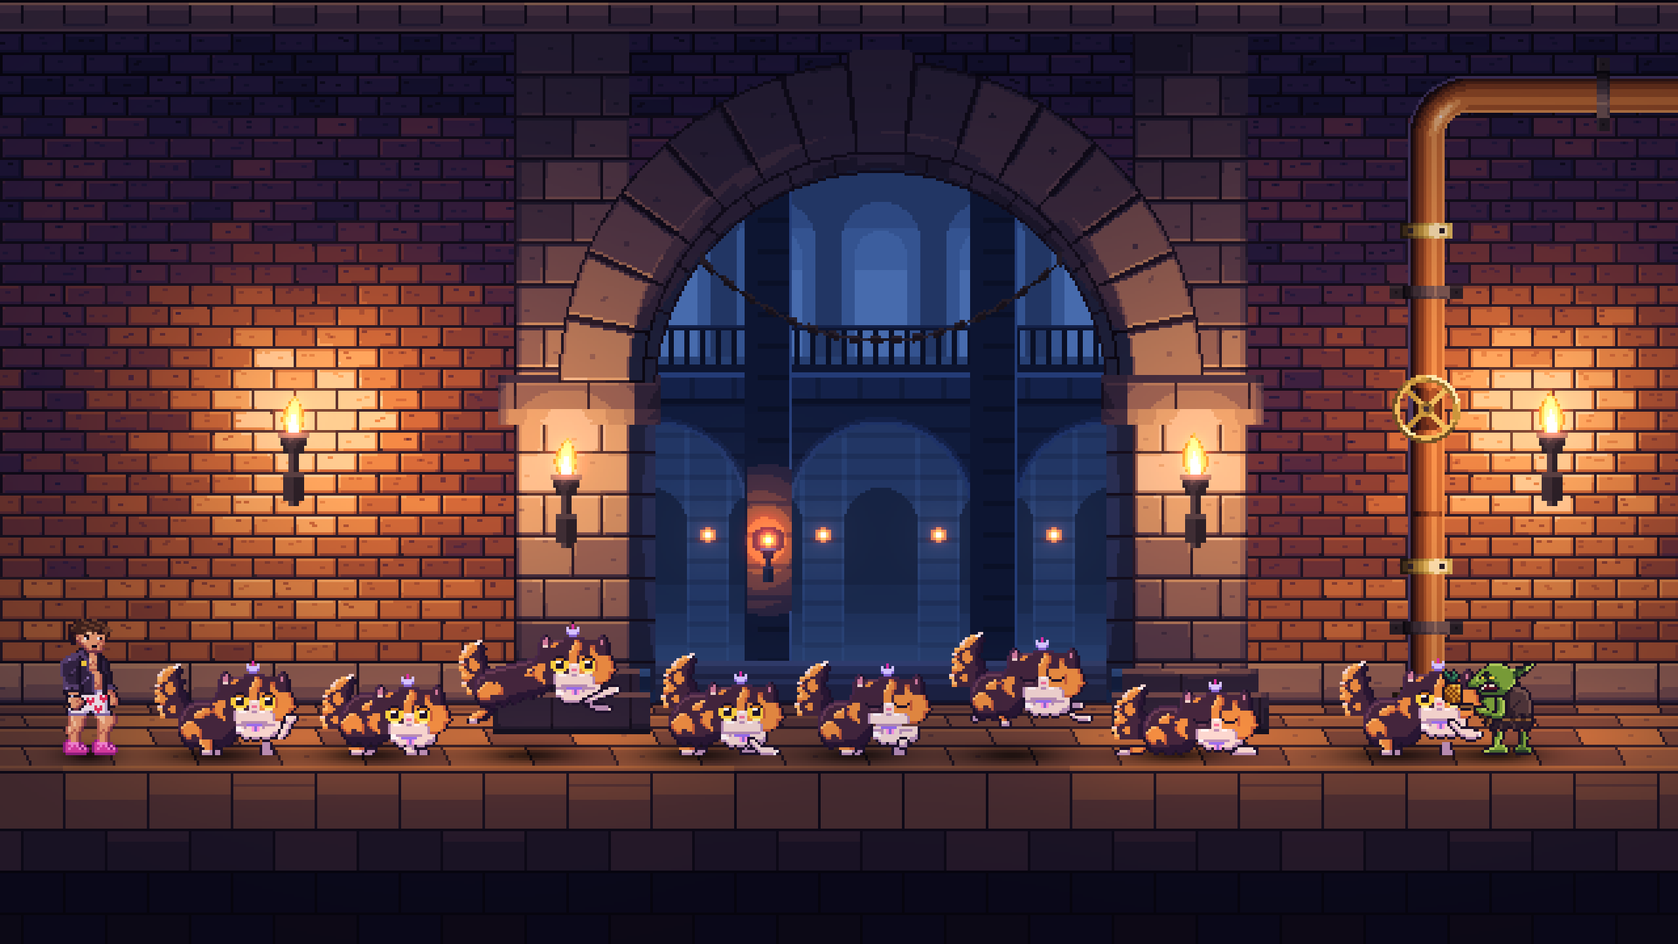
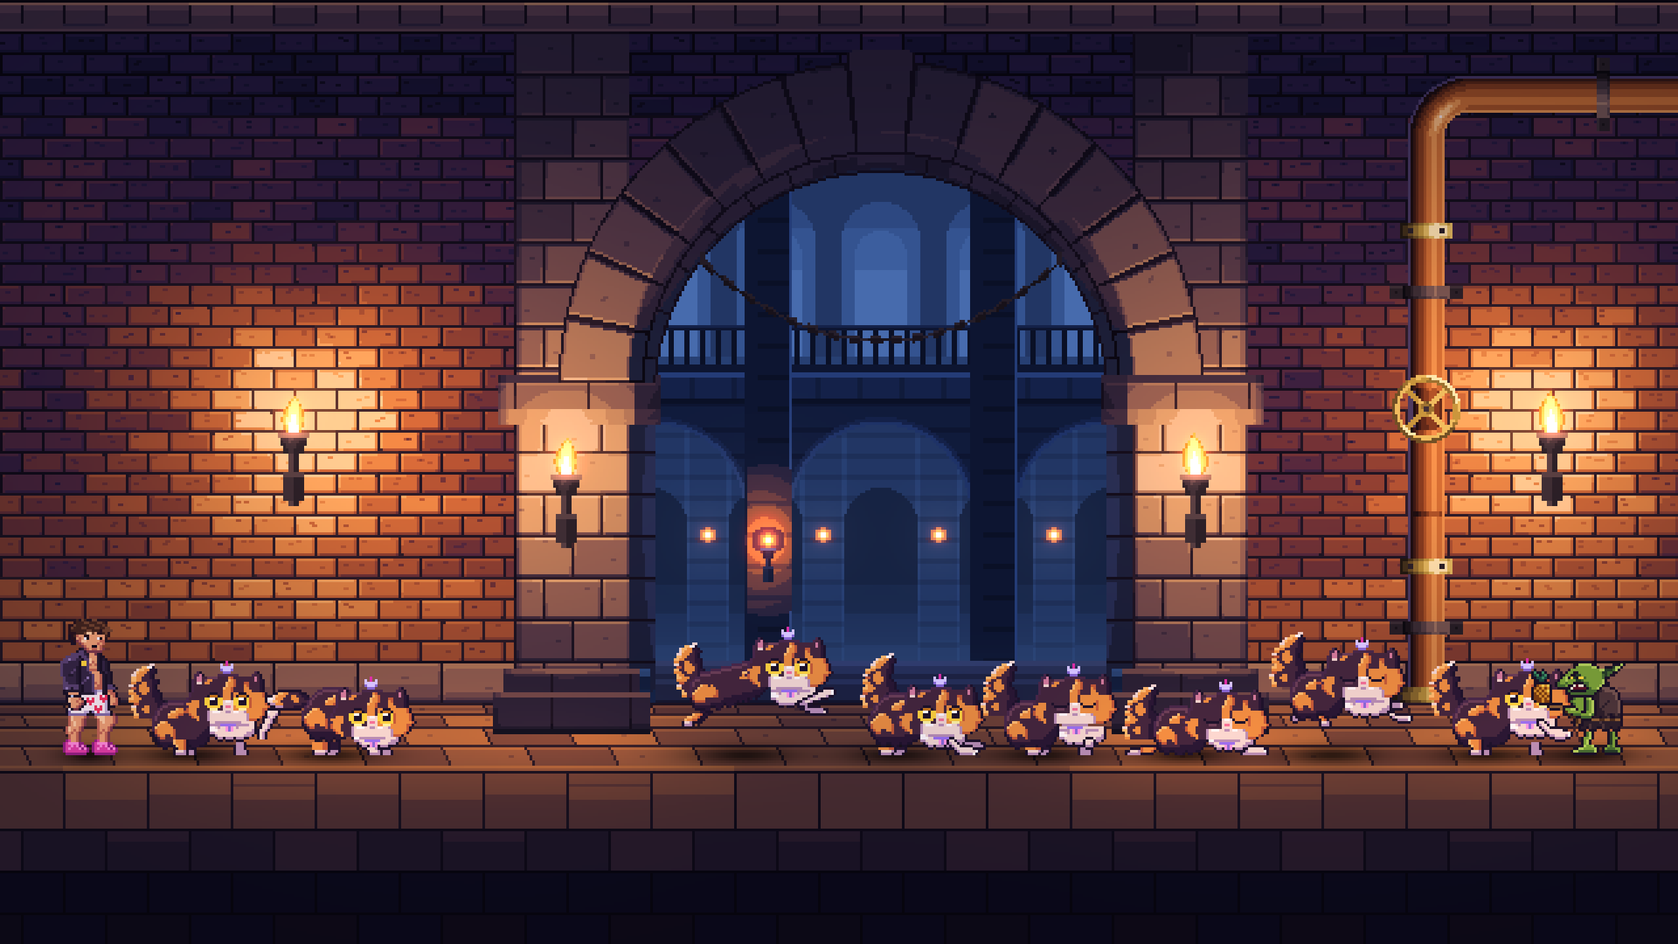
ANIM-DONUT-02: silhouette-gate fixes (p0 tell, s0 cock, p2 paws, re-staged evidence)

Changed region(s): [[0.0625, 0.6562, 1.0, 0.8125]]

diff --git a/scripts/author_donut_melee.py b/scripts/author_donut_melee.py
@@ -109,7 +109,9 @@ def key_s0() -> dict:
     f = base(15)                                   # land recovery: standing profile, chin up
     shift(f, UPPER + ["body", "tail"], -1, 1)
     clear(f, "legs_near", 44, 0)                    # the near fore becomes the swatting paw
-    put(f, "paw", 59, 28, """
+    # gate fix: paw 2 px up and 3 px forward so it breaks the head outline; K on its top and front edges,
+    # forearm continued down into the ruff to the shoulder
+    put(f, "paw", 62, 26, """
 ....KKKK.
 ...KWCCCK
 ...KCCCcK
@@ -119,6 +121,8 @@ def key_s0() -> dict:
 .KCCcK...
 .KCCcK...
 KCCcK....
+KCcK.....
+KCcK.....
 KCcK.....
 """)
     return f
@@ -146,9 +150,36 @@ KcCCK.........
 def key_p0() -> dict:
     """Pounce crouch (the tell): head 2 px lower over the paws, plume dropped low behind the rump."""
     f = base(10)                                   # jump_start crouch: chest low, rear up, hinds bunched
-    shift(f, UPPER, 0, 2)
-    shift(f, ["tail"], -2, 6)
+    shift(f, UPPER, 0, 3)                          # gate fix: chin 1 px lower, within 2 px of the forepaws
+    # gate fix: rump up 2 px. The body behind the chest (x < REAR) rises; the hind legs grow 2 rows by
+    # repeating their top (haunch) row, so the paws stay on row 43.
+    body = [["."] * W for _ in range(H)]
+    for y in range(H):
+        for x in range(W):
+            if f["body"][y][x] != ".":
+                body[y - 2 if x < P0_REAR else y][x] = f["body"][y][x]
+    f["body"] = body
+    for layer in ("legs_near", "legs_far"):
+        top = f[layer][41][:P0_REAR]
+        for y in (39, 40):
+            f[layer][y][:P0_REAR] = [c if c != "." else f[layer][y][x] for x, c in enumerate(top)]
+    # gate fix: the plume is re-pixelled for p0 only, swept back and near-horizontal, crest at the back line
+    # (the tail is outside the identity lock; same tortoiseshell keys as the master plume)
+    f["tail"] = [["."] * W for _ in range(H)]
+    put(f, "tail", 11, 19, """
+.....KKKKKKKKK......
+...KKGGOOBBBBDKK....
+.KKCGOOOBBOOBBDDK...
+KWWCOOOBBBOOOBBDDK..
+KCCGGOBBBBBOOBBBDDK.
+.KccOOOBBBBBBBDDDDK.
+..KKcccBBBBDDDDKKK..
+....KKKKKKKKKK......
+""")
     return f
+
+
+P0_REAR = 44                                       # p0: columns left of the chest that rise with the rump
 
 
 def key_p1() -> dict:
@@ -180,16 +211,17 @@ KccKK.........
 def key_p2() -> dict:
     """Pin landing: both forepaws slammed down in front, head pushed in, plume up (got it)."""
     f = base(10)
-    shift(f, UPPER, 1, 1)
+    shift(f, UPPER, 1, 2)                          # gate option: head 1 px lower into the pin
     shift(f, ["tail"], 2, -2)
     clear(f, "legs_near", 44, 0)
     clear(f, "legs_far", 44, 0)
-    put(f, "legs_far", 50, 39, """
+    # gate option: the far paw lands 2 px forward of and above the near one, in the shadow ramp
+    put(f, "legs_far", 60, 37, """
 KKK.......
-KccK......
-.KcccKKK..
-..KccccccK
-..KKKKKKKK
+KccKKKKK..
+.KccccccKK
+..KKcccccK
+....KKKKKK
 """)
     put(f, "legs_near", 55, 37, """
 KKK...........
@@ -349,9 +381,9 @@ def dump(grid: dict) -> str:
 # Evidence: keys at 1x on lit Floor 1 next to Carl and a GOB-01 goblin, plus a 4x copy and a 6x key sheet
 # ---------------------------------------------------------------------------
 
-SCENE = [  # (key frame, walking-line x, lift)
-    (0, 420, 0), (4, 478, 0), (5, 540, 10), (6, 604, 0), (8, 664, 0), (10, 724, 8), (11, 786, 0), (1, 870, 0)]
-CARL_AT, GOBLIN_AT = 362, 903
+SCENE = [  # (key frame, walking-line x, lift); airborne keys over open floor, clear of the two wall blocks
+    (0, 410, 0), (4, 464, 0), (5, 622, 9), (6, 680, 0), (8, 735, 0), (11, 790, 0), (10, 846, 8), (1, 904, 0)]
+CARL_AT, GOBLIN_AT = 362, 937
 
 
 def evidence() -> list[Path]:
@@ -392,6 +424,16 @@ def evidence() -> list[Path]:
     p = EVIDENCE / "keys_x6.png"
     sheet.save(p)
     out.append(p)
+    # gate check: s0, loco-10 jump_start and p0 side by side (the tell must be the lowest wedge)
+    loco10 = grid_images(LOCO)[10]
+    trio = [imgs[0], loco10, imgs[4]]
+    row = Image.new("RGBA", (W * 3 + 8, H + 4), (52, 46, 60, 255))
+    for n, im in enumerate(trio):
+        row.alpha_composite(im, (n * (W + 4), 2))
+    for k, name in ((1, "p0_vs_jump_start_x1.png"), (6, "p0_vs_jump_start_x6.png")):
+        p = EVIDENCE / name
+        row.resize((row.width * k, row.height * k), Image.NEAREST).convert("RGB").save(p)
+        out.append(p)
     return out
 
 

diff --git a/tests/test_art_donut_melee.py b/tests/test_art_donut_melee.py
@@ -87,7 +87,8 @@ class DonutMeleeKeysTests(unittest.TestCase):
             self.assertTrue(any(translated(got, s) for s in sources), f"key {k}: identity block was edited")
 
     def test_body_and_tail_are_translations_too(self):
-        for k in KEYS:
+        """Except p0 (gate fix): its rump rises 2 px and its plume is re-pixelled (tail is outside the lock)."""
+        for k in [k for k in KEYS if k != 4]:
             for layer in ("body", "tail"):
                 got = pixels(self.grid["frames"][k]["cels"][layer])
                 ok = any(translated(got, pixels(f["cels"][layer])) for f in self.loco["frames"] if layer in f["cels"])
@@ -101,12 +102,36 @@ class DonutMeleeKeysTests(unittest.TestCase):
             else:
                 self.assertEqual(max(rows), 43, k)
 
-    def test_swat_arc_goes_from_high_and_near_to_low_and_far(self):
+    def test_swat_is_a_downward_slap(self):
         cock = pixels(self.grid["frames"][0]["cels"]["paw"])
         hit = pixels(self.grid["frames"][1]["cels"]["paw"])
-        self.assertLess(min(y for _x, y in cock), min(y for _x, y in hit))
-        self.assertGreater(max(x for x, _y in hit), max(x for x, _y in cock))
+        # after the gate fix the cock is already forward of the head, so the swipe is a downward slap:
+        # the paw drops at least 6 rows at the same reach
+        tip = lambda px: min(y for x, y in px if x >= max(x for x, _y in px) - 5)  # noqa: E731  paw rows
+        self.assertGreaterEqual(tip(hit) - tip(cock), 6)
+        self.assertLessEqual(abs(max(x for x, _y in hit) - max(x for x, _y in cock)), 1)
         self.assertGreaterEqual(max(x for x, _y in hit) - am.PIVOT[0], 22)
+
+    def test_p0_is_a_low_forward_wedge(self):
+        """Gate fix: plume at or below the back line, tiara is the highest pixel, head 3 px below jump_start."""
+        p0 = self.grid["frames"][4]["cels"]
+        top = lambda rows: min(y for _x, y in pixels(rows))  # noqa: E731
+        self.assertGreaterEqual(top(p0["tail"]), top(p0["body"]))
+        everything = flat(self.grid["frames"][4], self.grid["layers"])
+        self.assertEqual(min(y for _x, y in everything), top(p0["gear"]))
+        self.assertEqual(top(p0["head"]) - top(self.loco["frames"][10]["cels"]["head"]), 3)
+        s0_top = min(y for (x, y) in flat(self.grid["frames"][0], ["head", "body", "tail"]))
+        self.assertGreater(min(y for (x, y) in flat(self.grid["frames"][4], ["head", "body", "tail"])), s0_top)
+
+    def test_s0_paw_breaks_the_head_outline(self):
+        """Gate fix: at least 3 px of the cocked paw sit right of the head, with a K top and front edge."""
+        paw = pixels(self.grid["frames"][0]["cels"]["paw"])
+        head_right = max(x for x, _y in pixels(self.grid["frames"][0]["cels"]["head"]))
+        self.assertGreaterEqual(max(x for x, _y in paw) - head_right, 3)
+        top = min(y for _x, y in paw)
+        self.assertTrue(all(c == "K" for (x, y), c in paw.items() if y == top))
+        front = max(x for x, _y in paw)
+        self.assertTrue(all(c == "K" for (x, y), c in paw.items() if x == front))
 
     def test_pounce_reaches_forward(self):
         paw = pixels(self.grid["frames"][5]["cels"]["paw"])

diff --git a/docs/02-art/donut-melee-anim-02-spec.md b/docs/02-art/donut-melee-anim-02-spec.md
@@ -1,6 +1,6 @@
 # ANIM-DONUT-02: Princess Donut melee and damage reactions, design spec (phase 1)
 
-**Status:** phase 1 design: eight keys drawn and frozen, the seven in-betweens are copies of their nearest key and wait for execution (section 6). Nothing here is reviewed or owner-approved. Nothing is wired into a Bevy binary; runtime integration is a separate work order. Rights basis for publishing: owner-reported `ART-PUBLICATION-ALL-V1` ([rights register](../04-production/rights-and-release.md)). No reuse licence, no game or asset-pack distribution right.
+**Status:** phase 1 design: eight keys drawn and frozen, silhouette-gate fixes applied (section 13), the seven in-betweens are copies of their nearest key and wait for execution (section 6). Nothing here is reviewed or owner-approved. Nothing is wired into a Bevy binary; runtime integration is a separate work order. Rights basis for publishing: owner-reported `ART-PUBLICATION-ALL-V1` ([rights register](../04-production/rights-and-release.md)). No reuse licence, no game or asset-pack distribution right.
 
 Read with: [ANIM-DONUT-01 locomotion](donut-locomotion-anim-01.md) (frame, pivot, layers and identity rules this spec inherits), [Donut bible](donut-character-bible.md), [gear timeline](donut-gear-timeline.md), [controller contract](../01-design/mvp-controller-contract.md#character-actions-and-progression), [antihero tone](../01-design/antihero-tone.md), and the structural model [ANIM-CARL-02](carl-melee-anim-02-spec.md).
 
@@ -12,14 +12,14 @@ Read with: [ANIM-DONUT-01 locomotion](donut-locomotion-anim-01.md) (frame, pivot
 | `scripts/author_donut_melee.py` | deterministic authoring record of the keys (`--check`, `--evidence`) |
 | `assets/manifests/donut_h40_melee.json` | candidate manifest `donut_h40_melee_candidate_v0`. Its `melee.moves` block is the **machine-readable tick contract**; `melee.frames` is the per-frame tick table |
 | `tests/test_art_donut_melee.py`, `tests/fixtures/anim-donut-02_keys.json` | contract tests and the frozen keys (SHA-256 over all eight layers) |
-| `docs/evidence/anim-donut-02/` | `keys-scale.png` (1×, lit Floor 1, next to Carl and a GOB-01 goblin), `keys-scale-x4.png`, `keys_x6.png` |
+| `docs/evidence/anim-donut-02/` | `keys-scale.png` (1×, lit Floor 1, next to Carl and a GOB-01 goblin; airborne keys over open floor, s1 at the goblin), `keys-scale-x4.png`, `keys_x6.png`, `p0_vs_jump_start_x1.png` / `_x6.png` (s0, locomotion `jump_start`, p0), `SHA256SUMS` |
 
 ## 1. Acting brief
 
 Donut fights like a pampered show cat who has decided this is beneath her and is doing it anyway. She is **agile and fragile**: quick, light, never planted, never a brawler. Every action is a cat action (paw, pounce, pin), never a human punch translated onto a cat. Cuteness stays the default (bible: "cute in neutral"); the attitude is in the timing and the tail, not in a snarl.
 
-- **Swat (primary, Square/X, pre-biscuit).** A quick defensive paw slap at a goblin's ankles: paw up beside the chin, then a short down-and-forward swipe. Low damage; it buys space, it does not win fights.
-- **Pounce (physical, Triangle/Y).** The hunting crouch (head low, plume dropped), a short flat leap with both forepaws thrown forward, then a two-paw pin on landing, plume up ("got it"). Its value is position: it moves her about 45 px fast. Missing it leaves her exposed (fragility = risk).
+- **Swat (primary, Square/X, pre-biscuit).** A quick defensive paw slap at a goblin's shins: paw up in front of the cheek, then a short downward slap. Low damage; it buys space, it does not win fights.
+- **Pounce (physical, Triangle/Y).** The hunting crouch (head low, rump up, plume swept back flat), a short flat leap with both forepaws thrown forward, then a two-paw pin on landing, plume up ("got it"). Its value is position: it moves her about 45 px fast. Missing it leaves her exposed (fragility = risk).
 - **Hurt.** Eyes squeezed shut (the master blink face, the locomotion "oof"), head jerks back and up, the near forepaw snaps off the floor.
 - **Knockback.** Thrown back, eyes shut, all four legs splayed: the startled-cat starfish.
 - **Knockdown and get-up.** She lands belly-down in a **sploot** (forepaws flat in front, hind legs flat behind), head upright. Get-up is quick and dignified: chest up first, then the chin, as in the locomotion `land` recovery.
@@ -40,7 +40,7 @@ Donut fights like a pampered show cat who has decided this is beneath her and is
 ## 3. Tick conventions and movement
 
 - Logic at 60 Hz. **Tick 0** is the fixed tick on which the press is accepted. Active ticks are the ticks on which the hitbox is live; the hit tick is the first active tick; one hit per target per move instance. Frame selection is a pure function of (move, move tick), and of airborne state for the hold frames. `.ase` durations are previews only (`round(ticks × 1000 / 60)`, holds 100 ms).
-- **Swat is movement-compatible** (controller contract: Donut's primary remains movement-compatible). Gameplay does **not** zero `vx` during the swat. The keys are drawn on a standing base with the hind legs planted, so at walking speeds up to about 60 px/s the 14-tick swat skates at most about 14 px; the execution phase shuffles the hind paws forward in s2/s3 to hide that. At full trail speed (up to 185 px/s) the integration should either cap `vx` during the swat or composite the swat's front half over the run cycle. That choice is open (section 8, Q1).
+- **Swat is movement-compatible** (controller contract: Donut's primary remains movement-compatible). Gameplay does **not** zero `vx` during the swat; it **caps** it (decision, section 13): proposal 60 px/s, so the 14-tick swat skates at most about 14 px over planted hind legs; the execution phase shuffles the hind paws forward in s2/s3 to hide that. No composited run-cycle swat (it would need a new layered asset and break the translate-only identity rule).
 - **Pounce has its own impulse** (placeholder, gameplay owns it): launch at t10 with `vx` 180 px/s and `vy` 130 px/s; with `GRAVITY` 1050 that is about 15 ticks airborne, an 8 px apex and about 45 px of travel. Horizontal input is ignored from t0 to touchdown + 8 ticks.
 - Hurt, knockback, knockdown and get-up: no root motion; knockback velocity is gameplay data.
 
@@ -65,7 +65,8 @@ The swat equals Carl's jab length (14) on purpose, so a one-button prototype can
 | s1 swat contact | paw | +13 .. +23 | 5 .. 10 | shins and knees |
 | p1 pounce flight | near paw | +18 .. +24 | 13 .. 16 (+ flight height) | belly / chest at apex |
 | p1 pounce flight | far paw | +15 .. +21 | 6 .. 9 (+ flight height) | thighs |
-| p2 pin landing | both paws | +14 .. +21 | 0 .. 3 | its feet |
+| p2 pin landing | near paw | +11 .. +21 | 0 .. 3 | its feet |
+| p2 pin landing | far paw | +16 .. +23 | 2 .. 5 | its feet |
 
 The same numbers are in `melee.hit_boxes_px`. Hurtbox: unchanged from the locomotion integration (the sim body); sprites never feed collision. The sploot is 4 px lower than idle; whether a downed Donut can be hit is a gameplay decision.
 
@@ -75,11 +76,11 @@ Coordinates are canvas pixels (x right, y down; floor row 43). **U(dx, dy)** tra
 
 | Frame | Key | Source | Pose |
 | --- | --- | --- | --- |
-| 0 | **s0 cock** | loco 15 (land recovery, standing) | U, B, T (-1, +1): weight shifts back. Near fore lifted onto `paw`: forearm up the right edge of the ruff (x59-63, rows 32-37), curled paw beside the chin at x62-67 rows 28-31, outside the ruff silhouette and against the ginger cheek; one `W` toe highlight up-left. Far fore planted |
-| 1 | **s1 swat contact** | loco 15 | U, B, T (+1, 0): leans in. Near fore swiped down-forward onto `paw`: paw x59-69 rows 33-38 (5-10 px above the floor), two `W` claw pixels on the leading edge at x68. Far fore and hinds planted |
-| 4 | **p0 crouch** (tell) | loco 10 (jump_start crouch) | U (0, +2): head low over the paws, eyes on the target. T (-2, +6): plume dropped low behind the rump (the hunting tell; jump_start keeps it up). Hinds bunched under the raised rump |
+| 0 | **s0 cock** | loco 15 (land recovery, standing) | U, B, T (-1, +1): weight shifts back. Near fore lifted onto `paw`: forearm from the shoulder up the right edge of the ruff (x62-68, rows 30-37), curled paw at x65-70 rows 26-29 in front of the cheek, 3 px past the head outline (head right edge x67), `K` on its top and front edges; one `W` toe highlight up-left. Far fore planted |
+| 1 | **s1 swat contact** | loco 15 | U, B, T (+1, 0): leans in. Near fore slapped down onto `paw` (forearm x56-60 rows 30-33): paw x59-69 rows 33-38 (5-10 px above the floor), two `W` claw pixels on the leading edge at x68. Same reach as the cock, 7 rows lower. Far fore and hinds planted |
+| 4 | **p0 crouch** (tell) | loco 10 (jump_start crouch) | U (0, +3): chin down to the forepaws, eyes on the target. Rump up 2 px: the `body` columns x < 44 rise 2 px (back line row 18), and the hind legs grow 2 rows by repeating their haunch row (rows 39-41), paws still on row 43. Plume **re-pixelled for p0 only**: swept back and near-horizontal at x11-29 rows 19-26, crest at or below the back line (master tortoiseshell keys). The tiara is the highest pixel (row 14); the silhouette is a forward-low wedge |
 | 5 | **p1 pounce flight** | loco 12 (jump_rise) | Long tilted body, hinds trailing. Both forelegs replaced: near fore on `paw` reaching forward and slightly up to a paw at x64-70, claws `W` at x69; far fore (shadow ramp `c`) lower at x61-67. Whole frame up 2 px: lowest row 41 |
-| 6 | **p2 pin landing** | loco 10 | U (+1, +1): head pushed in. T (+2, -2): plume up, triumphant. Both forepaws slammed flat in front: near paw x60-67 rows 40-43 with `W` claws, far paw behind it. Rump still up |
+| 6 | **p2 pin landing** | loco 10 | U (+1, +2): head pushed down into the pin. T (+2, -2): plume up, triumphant. Both forepaws slammed in front: near paw x57-67 rows 40-43 with `W` claws (x65-66); far paw (shadow ramp `c`) 2 px forward of and above it, x62-69 rows 38-41. Rump still up |
 | 8 | **h0 flinch** | loco 14 (land impact, blink face) | U (-3, -2), B (-2, -1), T (-3, -1): head jerks back and up, eyes shut. Far fore planted back at x50-55; near fore snapped off the floor (curled paw x52-56 rows 37-41) |
 | 10 | **kb thrown** | loco 14 | U, B, T (-4, -4), blink face. All legs redrawn splayed: near fore forward to x66 (row 35-39), far fore forward-up at x56-63 rows 31-34, near hind down (x30-35, to row 41), far hind back (x20-25). Lowest row 41 |
 | 11 | **d0 sploot impact** | loco 14 | B (0, +1): belly on row 43. U (0, +4): head drops, still upright, eyes shut. T (-4, +8): plume flops low. Near fore flat forward to x67 (rows 40-43); near hind flat behind (ginger haunch continues, paw x13-18) |
@@ -108,7 +109,7 @@ Key read checks at 1× (see `keys-scale.png`): the swat pair reads as paw up, th
 | 13 | `getup` | g0 chest up | 10 (t0-9) | getup | copy of d0 | forelegs straighten under the chest (loco-10 forelegs), B (0, 0), U (0, +2); hinds still flat behind |
 | 14 | `getup` | g1 chin up | 10 (t10-19) | getup | copy of d0 | the loco-15 pose with U (0, -1) (chin up first, dignity restored); hinds back under the hips. Hands over to idle |
 
-In-between rules: head, face and gear are translations of a locomotion head block only (the test enforces this for the keys; extend it to every frame); body and tail are translations; legs and paws are re-pixelled with the master ramps (`K` outline, `C`/`c` cream legs, `W` toe and claw highlights, far legs in the shadow ramp). No isolated pixels, at most 6 orphans per frame. After execution set `unique_frames: true` in the config.
+In-between rules: head, face and gear are translations of a locomotion head block only (the test enforces this for the keys; extend it to every frame); body and tail are translations (p0's re-pixelled plume and raised rump are the one exception; a wiggle variant reuses them); legs and paws are re-pixelled with the master ramps (`K` outline, `C`/`c` cream legs, `W` toe and claw highlights, far legs in the shadow ramp). No isolated pixels, at most 6 orphans per frame. After execution set `unique_frames: true` in the config.
 
 ## 7. State flow
 
@@ -138,11 +139,11 @@ Any hit cancels an attack (no armour). Airborne swat and pounce from a jump are 
 
 ## 8. Open questions (for the gameplay and input owners; nothing decided here)
 
-1. **Swat while running at full speed:** cap `vx` during the swat (simple, skates a little) or composite the swat's front half over the run cycle (needs a layered swat variant and an integration rule).
+1. ~~Swat while running at full speed~~ **Decided at the gate (section 13): cap `vx` during the swat** (proposal 60 px/s; the value is gameplay data).
 2. **Swat auto-repeat:** the contract leaves holding Square unresolved; the art supports a restart at t10.
 3. **Pounce distance and height:** 45 px and 8 px are placeholders; the flight frame holds for any airtime.
 4. **Does the pin hit the target it landed on, or only the flight hit?** The art supports both; the manifest's active rule allows one hit per instance across flight and the first two landing ticks.
-5. **Hurt facing:** frames assume a hit from the front; turn Donut towards the source or accept the mirrored read.
+5. ~~Hurt facing~~ **Decided at the gate (section 13): Donut turns towards the hit source** when hurt or knockback starts; the frames assume a hit from the front.
 
 ## 9. Acceptance targets
 
@@ -162,9 +163,22 @@ Score per [routing by difficulty](../07-agents/pixel-art-pipeline.md#routing-by-
 ## 11. Self-review of the keys (not approval)
 
 - **Works:** identity holds by construction (every head, face, gear, body and tail pixel is a translated locomotion pixel; the test enforces it). The swat contact reads against the goblin's shins at 1×. The pounce flight and sploot are the clearest silhouettes.
-- **Weak:** the s0 cock is small at 1× (the paw is a 6 × 4 cream shape beside the chin); p0 differs from the locomotion `jump_start` mostly by the dropped plume and the lower head; h0 relies on the blink face and the head jerk; far legs are mostly hidden by the ruff. A reviewer may want a larger cock arc (paw higher on the cheek) or a flattened-ears head variant, which would need an owner-approved face edit.
+- **Weak (before the gate):** the s0 cock sat inside the head outline and p0 read as "standing slightly lower"; both were fixed in section 13. **Still weak:** h0 relies on the blink face and the head jerk; far legs are mostly hidden by the ruff; p0's raised rump makes the hind haunch a 3-row ginger column. A flattened-ears head variant would help hurt and the crouch but needs an owner-approved face edit.
 - No human has judged feel or timing in motion. All tick numbers are proposals.
 
 ## 12. Rights/Provenance
 
 Spec and keys: Claude Opus (design). Built only from the owner-approved Donut master and the owner-approved ANIM-DONUT-01 locomotion pixels; legs and paws hand-placed in pixel-grid-v1 by the authoring script. No generated illustration, concept-board pixel, image-model raster or third-party asset was used.
+
+## 13. Silhouette gate result and fixes
+
+The independent silhouette gate returned **FIX-KEYS** (p0 required, s0 recommended). It passed s1, p1, p2, h0, kb and d0 at 1×, as well as master fidelity, tone and the belly-down sploot. It recorded two answers as decisions: **Q1, cap `vx` during the swat** (no composited run-cycle swat), and **Q5, Donut turns towards the hit source**. Fixes applied and re-frozen:
+
+| Key | Gate request | Applied |
+| --- | --- | --- |
+| p0 (required) | plume at or below the back line; head 1 px lower; rump up 1-2 px; tiara the highest pixel; clearly lower than s0 and `jump_start` | plume re-pixelled swept back (x11-29, rows 19-26; back line row 18); U (0, +3); rump +2 px with the hind legs lengthened 2 rows; tiara row 14 is the top. Tested (`test_p0_is_a_low_forward_wedge`); compare in `p0_vs_jump_start_x6.png` |
+| s0 (recommended) | paw 2 px up and forward past the head outline, `K` top and front edge, forearm continuous to the shoulder | paw x65-70 rows 26-29, 3 px past the head (x67); `K` top row and front column; forearm extended 2 rows into the ruff. Tested (`test_s0_paw_breaks_the_head_outline`). The swat is now a downward slap at equal reach (the test checks a drop of 6 rows or more) |
+| p2 (optional) | separate the two paws; head 1 px lower | far paw 2 px forward and above the near paw in the `c` ramp; U (+1, +2) |
+| evidence (required) | flight key over open floor, s1 at the goblin, p0 vs `jump_start` side by side | `keys-scale.png` re-staged (p1 at x622, kb at x846, s1 at x904 against the goblin at x937); `p0_vs_jump_start_x1.png` and `_x6.png` added |
+
+Every pixel number in sections 4 and 5 was re-measured on the re-frozen grid.
